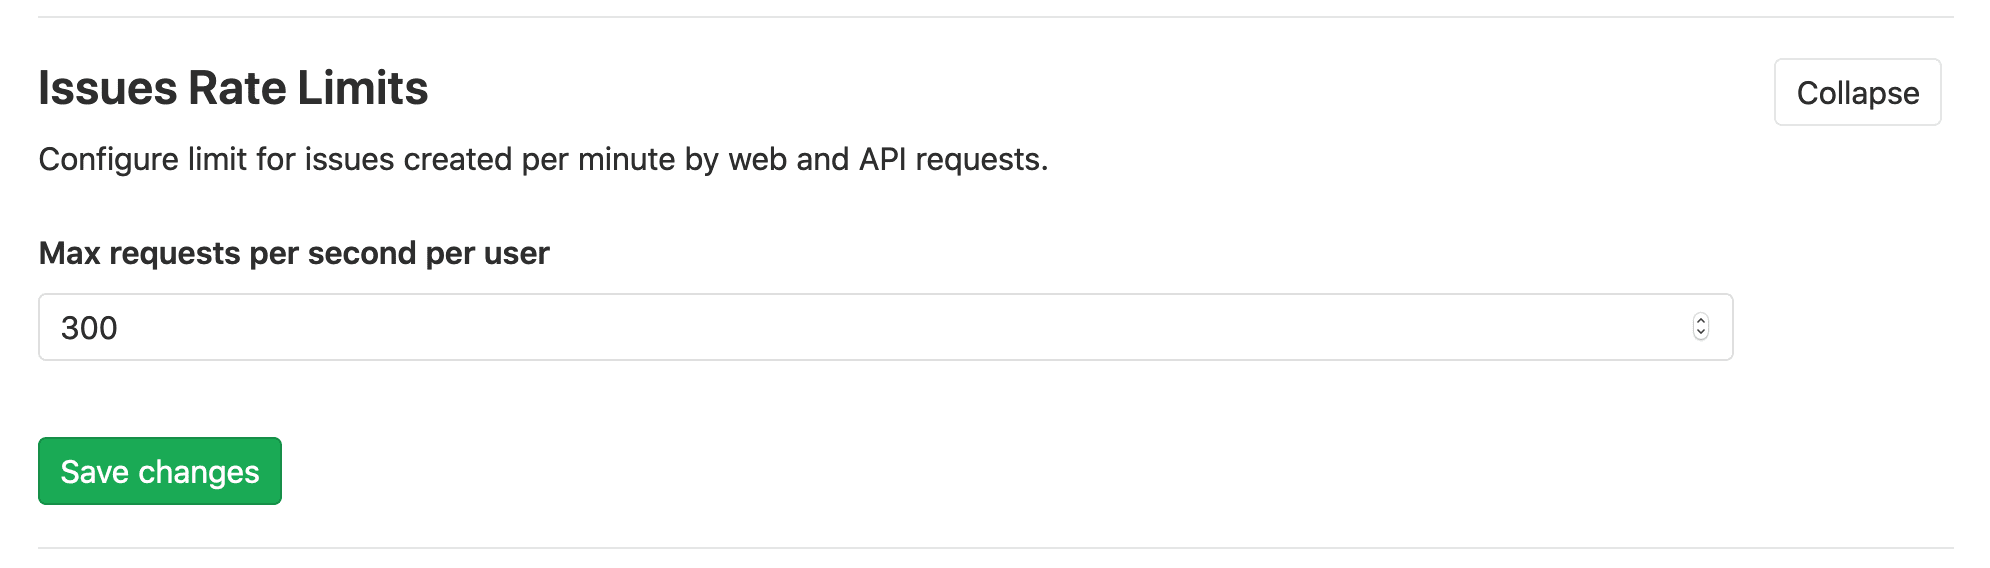
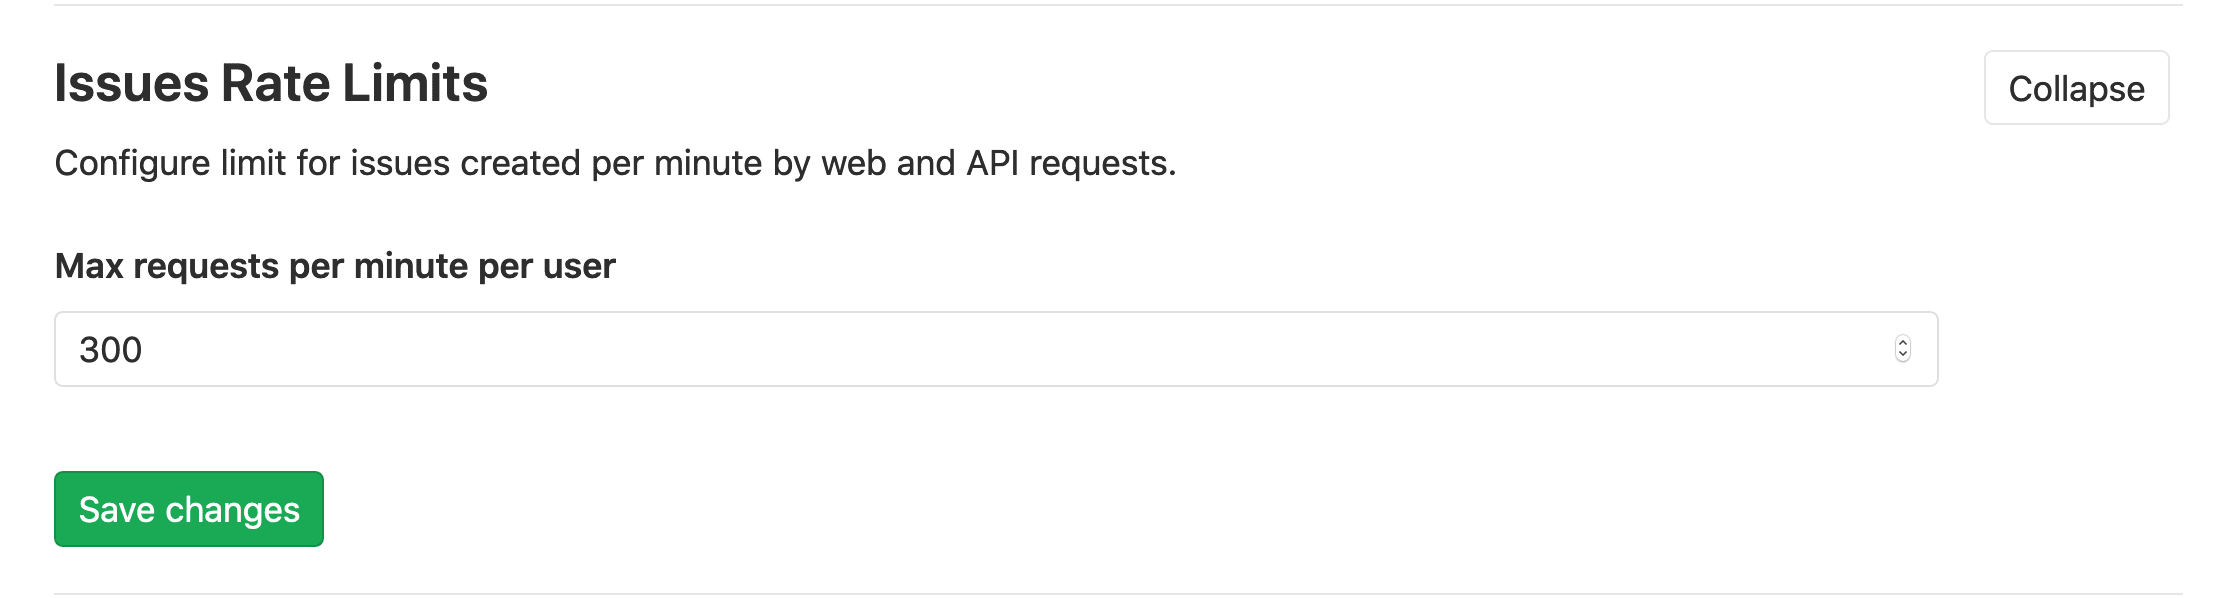
Update issue limits template to use minute

diff --git a/spec/features/admin/admin_settings_spec.rb b/spec/features/admin/admin_settings_spec.rb
@@ -405,7 +405,7 @@ describe 'Admin updates settings', :clean_gitlab_redis_shared_state, :do_not_moc
         visit network_admin_application_settings_path
 
         page.within('.as-issue-limits') do
-          fill_in 'Max requests per second per user', with: 0
+          fill_in 'Max requests per minute per user', with: 0
           click_button 'Save changes'
         end
 
